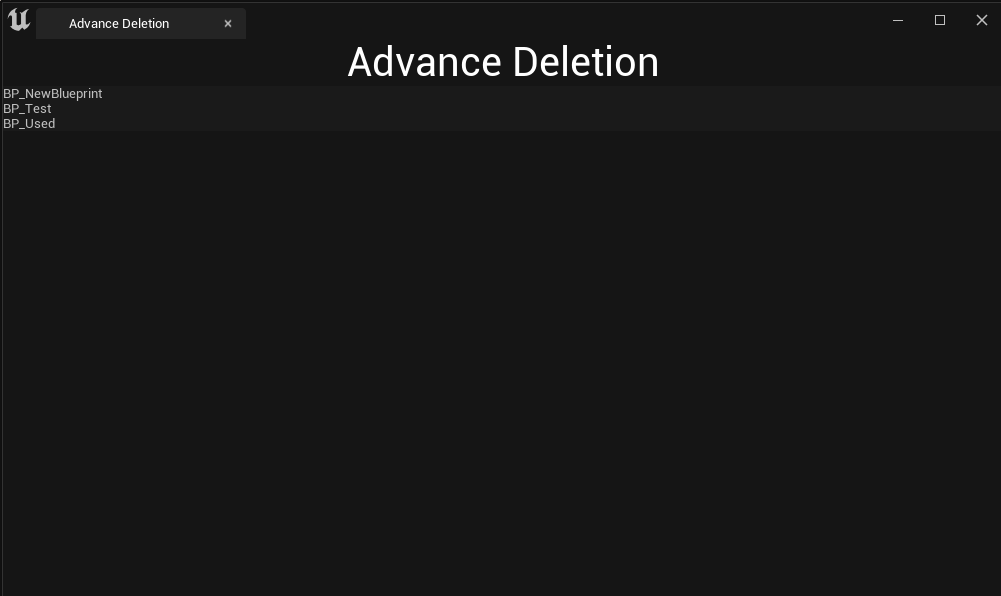
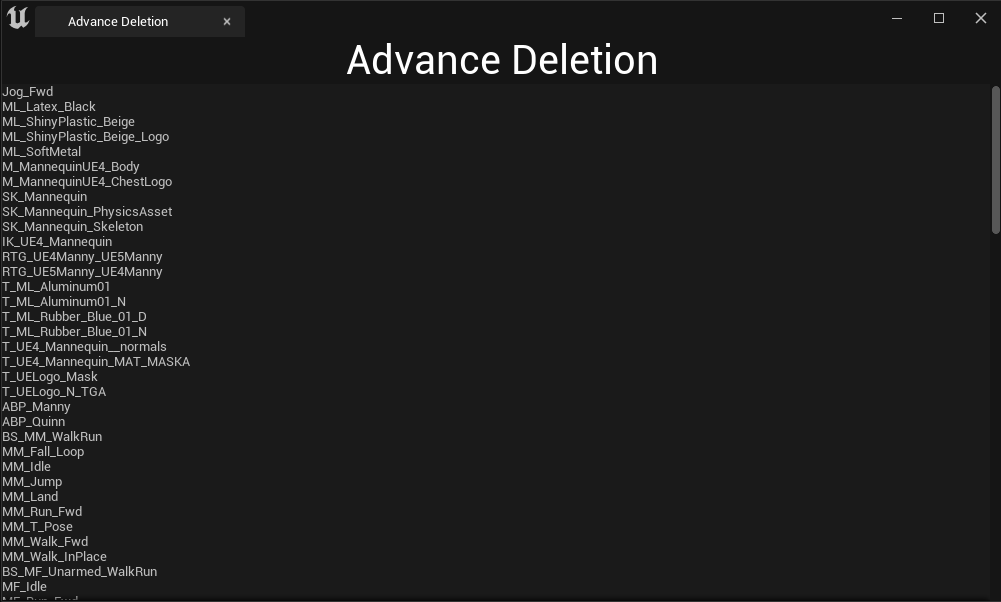
9-11

diff --git a/_posts/Effective C++/2023-09-11-항목40 다중 상속은 심사숙고해서 사용하자.md b/_posts/Effective C++/2023-09-11-항목40 다중 상속은 심사숙고해서 사용하자.md
@@ -1,0 +1,161 @@
+---
+title: 항목40 다중 상속은 심사숙고해서 구사하자
+date: 2023-09-11
+categories: [Effective C++,Effective C++]
+tags: [effective c++]		# TAG는 반드시 소문자로 이루어져야
+---
+
+* C++에서 `다중 상속(MI, mutiple inheritance)`은 두 가지 의견으로 나뉜다.
+
+  * 첫 번째로는, `단일 상속이 좋다면 다중 상속이 더 좋다`라는 입장이 있고
+
+  * 두 번째로는, `단일 상속은 좋지만 다중 상속은 골칫거리`라고 한다.
+
+* 이 두 가지 견해에 대해 작성한다.
+
+<br>
+
+**다중 상속 모호성**
+=======
+
+* 다중 상속이라 하면 `둘 이상의 기본 클래스로부터 같은 이름을 물려받을 가능성이 있다`라는 것을 기억해야 한다.
+
+  * 그렇기 때문에 모호성이 생겨버린다.
+
+```c++
+class BorrowableItem {
+
+    public:
+        void checkOut();
+};
+
+class ElectroninGadget {
+
+    private:
+        bool checkOut() const;
+};
+
+class Mp3Player : public BorrowableItem, public ElectronicGadget 
+{ ... };
+
+int main()
+{
+    Mp3Player mp;
+
+    mp.checkOut();
+}
+```
+
+* 위에서 눈 여겨볼 점은 Borrow 클래스는 public 멤버, Elec 클래스는 private 멤버지만 모호성이 발생한다.
+
+* 이유는 `중복된 함수 호출 중 하나를 골라내는 C++의 규칙을 따른 결과`이다.
+
+* 어떤 함수가 접근 가능한 함수인지 알아보기 전에, C++ 컴파일러가 주어진 호출에 대해 최적으로 일치하는 함수인지 먼저 확인한다.
+
+  * 즉, 최적 일치 함수를 찾은 후에 함수의 접근가능성을 점검한다는 이야기다.
+
+* 위 예시의 모호성을 해소하려면 기본 클래스 함수를 직접 지정해야 한다.
+
+```c++
+mp.BorrowableItem::checkOut(); 
+// 단, private 멤버는 호출 안됨
+```
+
+<br>
+
+**다중 상속 마름모꼴**
+=========
+
+* 다중 상속의 의미는 '둘 이상의 클래스로부터 상속을 받는 것' 이지만, 이 다중 상속은 상위 단계의 기본 클래스를 여러 개 갖는 클래스 계통에서 심심치 않게 볼 수 있다.
+
+```c++
+class File{};
+
+class InputFile  : public File {};
+
+class OutputFile : public File {};
+
+class IOFile : public InputFile, public OutputFile
+```
+
+<center><img src="./../../../assets/img/../../yjh9317.github.io/assets/img/EffectiveC++/MI%20Diamond.png" style="width: 60%; height: auto;"></center>
+
+
+* File 클래스 안에 filename이라는 멤버 변ㄴ수가 있다면 IOFile 클래스에는 이 필드가 몇 개 들어 있어야 할까?
+
+* 기본 클래스로부터 사본을 하나씩 물려 받아 결과적으로 fileName 데이터 멤버가 두 개인듯 싶다가도, 단순하게 IOFile 객체는 파일 이름이 하나만 있는게 맞으니까 중복안 될거 같기도 한다
+
+<br>
+
+-----------
+
+* C++은 위 논란에 대해 정확히 결단을 내리지 않고 두 가지 모두 지원한다.
+
+* 기본적으로 데이터 멤버를 중복생성하는 쪽이지만, 데이터 멤버의 중복 생성을 원하지 않는다면 해당 데이터 멤버를 가진 클래스를 `가상 기본 클래스(virtual base class)`로 만드는 것으로 해결할 수 있다.
+
+```c++
+class File{};
+
+class InputFile  : virtual public File {};
+
+class OutputFile : virtual public File {};
+
+class IOFile : public InputFile, public OutputFile
+```
+
+
+<center><img src="./../../../assets/img/../../yjh9317.github.io/assets/img/EffectiveC++/virtual%20MI%20Diamond.png" style="width: 60%; height: auto;"></center>
+
+
+
+* 사실 표준 C++ 라이브러리가 이런 모양의 MI 상속 계통을 갖고 있는데, 클래스가 아닌 클래스 템플릿으로 가지고 있다.
+
+* 이름은 `basic_ios`, `basic_istream`, `basic_ostream`, `basic_iostream`이다.
+
+<br>
+
+
+**가상 기본 클래스**
+============
+
+* 정확한 동작의 관점에서 보면 public 상속은 반드시 항상 가상 상속이어야 하지만, 정확성 외에 다른 측면도 같이 생각할 수 밖에 없다.
+
+* 사실, 상속되는 데이터 멤버의 중복 생성을 막는데는 보이지 않는 컴파일러의 꼼수가 필요하다.
+
+* 그 꼼수 덕분에, 가상 상속을 사용하는 클래스로 만들어진 객체는 가상 상속을 쓰지 않은 것보다 일반적으로 크기가 더 크다.
+
+* 게다가 가상 기본 클래스 데이터 멤버에 접근하는 속도도 비가상 기본 클래스의 데이터 멤버에 접근하는 속도보다 느리다.
+
+<br>
+
+**가상 기본 클래스의 초기화에 대한 규칙**
+------
+
+* 가상 기본 클래스에 관련된 규칙은 비가상 기본 클래스보다 훨씬 복잡하고 직관성도 떨어진다.
+
+* 대부분의 경우, 가상 상속이 되어 있는 클래스 계통에서는 파생 클래스들로 인해 가상 기본 클래스 부분을 초기화할 일이 생기는데 이 때 초기화 규칙은 다음과 같다.
+
+  * 초기화가 필요한 가상 기본 클래스로부터 클래스가 파생된 경우, 이 파생 클래스는 가상 기본 클래스와의 거리 상관없이 가상 기본 클래스의 존재를 염두해야 한다.
+
+  * 기존 클래스 계통에 파생 클래스를 새로 추가할 때도 그 파생 클래스는 가상 기본 클래스의 초기화를 떠맡아야 한다.
+
+* 그래서` 쓸 필요가 없으면 가상 기본 클래스를 사용하지 않고, 가상 기본 클래스를 꼭 써야만 한다면 가상 기본 클래스에는 데이터를 넣지 않는 쪽으로 신경쓰는 편이 좋다.`
+
+
+<br>
+
+**결론**
+========
+
+* 다중 상속은 그저 객체 지향 기법에서 소프트웨어를 개발하는데 쓰이는 도구 중 하나이며, 단일 상속과 비교해 사용하거나 이해하기에 더 복잡한 것은 사실이므로, 단일 상속으로도 가능하다면 단일 상속으로 하는 편이 좋다.
+
+> 이것만은 잊지 말자!
+> * 다중 상속은 단일 상속보다 복잡하다. 새로운 모호성 문제뿐만 아니라 가상 상속이 필요해질 수도
+>   있다.
+>
+> * 가상 상속을 사용하면, 크기,속도 비용이 늘어나고 초기화 및 대입 연산의 복잡도가 커진다.
+>   따라서 가상 기본 클래스에는 데이터를 두지 않는 것이 현실적으로 가장 실용적이다.
+>
+> * 다중 상속을 적법하게 사용할 수 있다. 여러 시나리오 중 하나는, 인터페이스 클래스로부터 public
+>   상속을 시킴과 동시에 구현을 돕는 클래스로부터 private 상속을 시키는 것이다.
+{: .prompt-tip }

diff --git a/_posts/Unreal/Editor/2023-09-09-SListView.md b/_posts/Unreal/Editor/2023-09-09-SListView.md
@@ -44,8 +44,9 @@ private:
 
 * 그러고 나서 모듈 파일에서 에셋 데이터 배열을 받아오는 함수를 작성해서 받아온다. 
 
+* 이 함수의 반환값을 `SLATE_ARGUMENT`로 보내서 Slate 클래스에서 사용함
+
 ```c++
-// OnSpawnAdvanceDeletionTab은 버튼에 등록한 델리게이트 함수
 TSharedRef<SDockTab> FSuperManagerModule::OnSpawnAdvanceDeletionTab(const FSpawnTabArgs& SpawnTabArgs)
 {
 	return SNew(SDockTab).TabRole(ETabRole::NomadTab)
@@ -56,7 +57,6 @@ TSharedRef<SDockTab> FSuperManagerModule::OnSpawnAdvanceDeletionTab(const FSpawn
 	];
 }
 
-// 에셋 데이터를 TSharedPtr에 담아서 배열로 반환하는 함수
 TArray<TSharedPtr<FAssetData>> FSuperManagerModule::GetAllAssetDataUnderSelectedFolder()
 {
 	TArray<TSharedPtr<FAssetData>> AvailableAssetsData;
@@ -81,7 +81,7 @@ TArray<TSharedPtr<FAssetData>> FSuperManagerModule::GetAllAssetDataUnderSelected
         AvailableAssetsData.Add(MakeShared<FAssetData>(Data));
     }
 
-	return StoredAssetsData;
+	return AvailableAssetsData;
 }
 ```
 
@@ -90,9 +90,7 @@ TArray<TSharedPtr<FAssetData>> FSuperManagerModule::GetAllAssetDataUnderSelected
 **에셋 데이터를 목록(행)으로 등록**
 ============
 
-* 그다음 받아온 에셋 데이터를 Construct 함수에서 Slot으로 추가한다.
-
-* 기존에 있는 부분은 코드가 길어져서 삭제하고 이 장에 관련된 코드 함수만 추가함
+* 그다음 받아온 에셋 데이터를 Slate 클래스의 Construct 함수에서 Slot으로 추가한다.
 
 * FKey와 관련된 Input Event에 대해 컴파일 오류가 난다면 build.cs파일에서 `InputCore`를 넣어주면 된다
 
@@ -105,21 +103,21 @@ void SAdvanceDeletionTab::Construct(const FArguments& InArgs)
 	StoredAssetsData = InArgs._AssetsDataToStore;
 	
     +SVerticalBox::Slot()
-    .AutoHeight()
+    .VAlign(VAlign_Fill)  // 이 값을 설정해야 스크롤이 작동
     [
-        SNew(SScrollBox) // 스크롤 Widget 사용
+        SNew(SScrollBox)
 
         +SScrollBox::Slot()
         [
             SNew(SListView<TSharedPtr<FAssetData>>)
             .ItemHeight(24.f)						// 세로 길이
-            .ListItemsSource(&StoredAssetsData)		// 에셋 데이터(에셋) 배열
-            .OnGenerateRow(this,&SAdvanceDeletionTab::OnGenerateRowForList) // 델리게이트 함수
+            .ListItemsSource(&StoredAssetsData)		// 에셋 데이터 배열
+            .OnGenerateRow(this,&SAdvanceDeletionTab::OnGenerateRowForList) // 델리게이트
         ]
     ]
 }
 
-// 행으로 추가하면서 각 행에 대해 텍스트 같은 디테일적인 부분을 변경하는 함수
+// 각 행에 대해 버튼,체크박스 같은 것들을 추가할 때 사용
 TSharedRef<ITableRow> SAdvanceDeletionTab::OnGenerateRowForList(TSharedPtr<FAssetData> AssetDataToDisplay,
 	const TSharedRef<STableViewBase>& OwnerTable)
 {
@@ -139,12 +137,8 @@ TSharedRef<ITableRow> SAdvanceDeletionTab::OnGenerateRowForList(TSharedPtr<FAsse
 사진
 -------
 
-* Blueprint Folder 안에 있는 에셋 목록
-
-<center><img src="./../../../assets/img/Unreal/Editor/SListView/Blueprint%20Folder.png" style="width: 70%; height: auto;"></center>
-
 <br>
 
-* Blueprint Folder를 우클릭하고 에디터를 열면 다음과 같이 뜬다.
+* Content를 우클릭하고 에디터를 열면 다음과 같이 뜬다.
 
-<center><img src="./../../../assets/img/Unreal/Editor/SListView/SList.png" style="width: 70%; height: auto;"></center>
+<center><img src="./../../../assets/img/Unreal/Editor/SListView/SList.png" style="width: 80%; height: auto;"></center>

diff --git a/_posts/Unreal/Editor/2023-09-10.SCheckBox.md b/_posts/Unreal/Editor/2023-09-10.SCheckBox.md
@@ -1,0 +1,59 @@
+---
+title: SCheckBox
+date: 2023-09-10
+categories: [unreal,Editor]
+tags: [unreal]		# TAG는 반드시 소문자로 이루어져야함!
+---
+
+**SCheckBox**
+============
+
+* Slate 위젯에 CheckBox를 사용할 수 있는데 `OnCheckStateChanged()` 이벤트를 사용한다.
+
+  * 이벤트는 델리게이트와 같은 기능을 하지만, 델리게이트와 달리 이벤트는 전역으로 선언할 수 없어 외부말고 클래스 내부에 선언해야 하는 키워드.
+
+```c++
+// SCheckBox.h
+/** Called when the checked state has changed */
+SLATE_EVENT( FOnCheckStateChanged, OnCheckStateChanged )
+```
+
+* 아래는 체크박스 관련 함수들
+
+```c++
+TSharedRef<SCheckBox> SAdvanceDeletionTab::ConstructCheckBox(const TSharedPtr<FAssetData>& AssetDataToDisplay)
+{
+	TSharedRef<SCheckBox> ConstructedCheckBox =
+	SNew(SCheckBox)                     // 체크박스 생성
+	.Type(ESlateCheckBoxType::CheckBox) // 체크박스 타입
+	.OnCheckStateChanged(this,&SAdvanceDeletionTab::OnCheckBoxStateChanged,AssetDataToDisplay) 		// 체크할 때 델리게이트
+	.Visibility(EVisibility::Visible);  // 가시성
+
+	return ConstructedCheckBox;
+}
+
+// 체크박스 상태가 변할 때 호출되는 함수
+void SAdvanceDeletionTab::OnCheckBoxStateChanged(ECheckBoxState NewState, TSharedPtr<FAssetData> AssetData)
+{
+	switch (NewState)
+	{
+		case ECheckBoxState::Unchecked: // 체크 해제
+			DebugHeader::Print(AssetData->AssetName.ToString() + TEXT("is unchecked"), FColor::Red);
+			break;
+		case ECheckBoxState::Checked:   // 체크
+			DebugHeader::Print(AssetData->AssetName.ToString() + TEXT("is checked"), FColor::Green);
+			break;
+	}
+}
+```
+* ECheckBoxState로 체크 박스에 대한 상태를 확인 후, switch에서 값에 맞게 처리
+
+* 체크
+
+<center><img src="./../../../assets/img/Unreal/Editor/SCheckBox/Check.png" style="width: 70%; height: auto;"></center>
+
+<br>
+
+* 체크 후 해제
+
+<center><img src="./../../../assets/img/Unreal/Editor/SCheckBox/UnCheck.png" style="width: 70%; height: auto;"></center>

diff --git a/_posts/Unreal/Editor/2023-09-08-Sending Data To Slate Widget.md b/_posts/Unreal/Editor/2023-09-08-Sending Data To Slate Widget.md
@@ -1,6 +1,6 @@
 ---
-title: Sending Data To Slate Widget
-date: 2023-09-09
+title: 2-Sending Data To Slate Widget
+date: 2023-09-08
 categories: [unreal,Editor]
 tags: [unreal]		# TAG는 반드시 소문자로 이루어져야함!
 ---
@@ -39,10 +39,8 @@ public:
 * 다음과 같이 만들면 다른 클래스에서 이 위젯 클래스에게 데이터를 보낼 때 사용할 수 있다.
   
 ```c++
-// 
 TSharedRef<SDockTab> FSuperManagerModule::OnSpawnAdvanceDeletionTab(const FSpawnTabArgs& SpawnTabArgs)
 {
-	// SDockTab(Slate) 생성 후 반환
 	return SNew(SDockTab).TabRole(ETabRole::NomadTab)
 	[
 		SNew(SAdvanceDeletionTab) 	// 괄호 안의 클래스 이름의 Slate 생성
@@ -50,13 +48,11 @@ TSharedRef<SDockTab> FSuperManagerModule::OnSpawnAdvanceDeletionTab(const FSpawn
 	];
 }
 ```
+* `SNew` 키워드는 `Slate 관련 클래스를 만들 때 사용`한다.
+
+  * ex) SButton, SCheckBox ...
 
 * 여기서 `대괄호 []` 는 `하나의 슬롯을 의미한다`.
-
-* 위 함수는 블루프린트 에디터에서 계층 구조에 텍스트를 하나 넣은 것과 동일하다
-
-
-
 
 <br>
 
@@ -73,8 +69,9 @@ void SAdvanceDeletionTab::Construct(const FArguments& InArgs)
     // ChildSlot은 Slate Widget의 기본 슬롯
 	ChildSlot
 	[
-		SNew(STextBlock) // Slate 텍스트 생성
-		.Text(FText::FromString(InArgs._TestString)) // 텍스트 전달
+		// SLATE_ARGUMENT에서 ArgName이 TestString이여서 _TestString으로 받아올 수 있음
+		SNew(STextBlock)
+		.Text(FText::FromString(InArgs._TestString))
 	];
 }
 ```

diff --git a/_posts/Unreal/Editor/2023-09-09-Setup Title.md b/_posts/Unreal/Editor/2023-09-09-Setup Title.md
@@ -8,11 +8,11 @@ tags: [unreal]		# TAG는 반드시 소문자로 이루어져야함!
 **Title Text**
 =========
 
-* Slate Widget을 처음 만들면 기본적으로 슬롯이 하나밖에 없어 하나의 텍스트밖에 넣지 못한다.
+* Slate Widget을 처음 만들면 기본적으로 슬롯이 하나밖에 없어 하나의 텍스트(위젯 클래스)밖에 넣지 못한다.
 
-  * 블루프린터 에디터에서 계층구조에서 루트에 있는 노드에게 텍스트 블럭을 두 개 이상 넣지 못하는 것과 동일
+  * 위젯 블루프린트 에디터에서 계층구조에서 루트에 있는 노드에게 텍스트 블럭을 두 개 이상 넣지 못하는 것과 동일
 
-* 그래서 다음과 같이 다른 위젯을 추가해서 더 부를 수 있다.
+* 그래서 다음과 같이 슬롯을을 추가해서 다른 위젯을 추가할 수 있다.
 
 
 ```c++

diff --git a/_posts/Unreal/Editor/2023-09-08-Spawn A Custom Editor Tab.md b/_posts/Unreal/Editor/2023-09-08-Spawn A Custom Editor Tab.md
@@ -1,6 +1,6 @@
 ---
-title: Spawn A Custom Editor Tab
-date: 2023-09-09
+title: 1-Spawn A Custom Editor Tab
+date: 2023-09-08
 categories: [unreal,Editor]
 tags: [unreal]		# TAG는 반드시 소문자로 이루어져야함!
 ---
